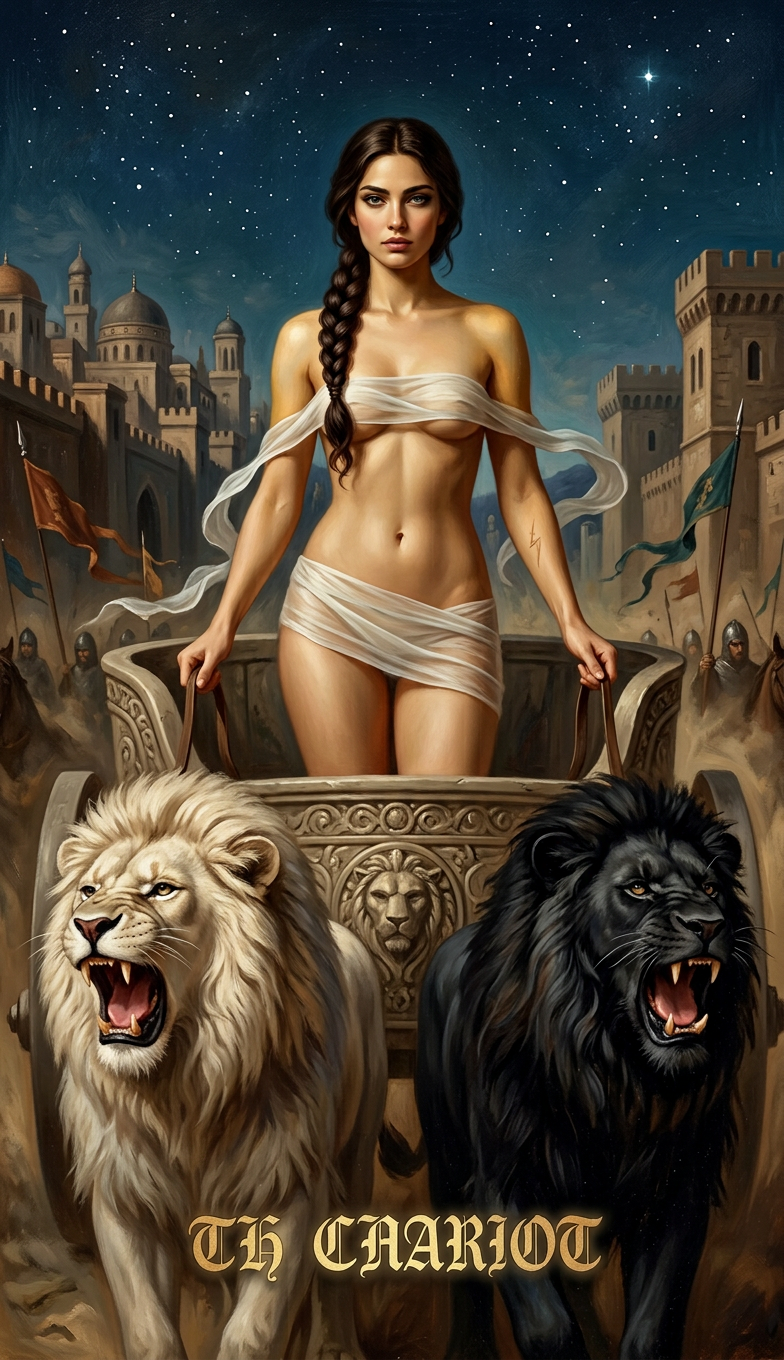
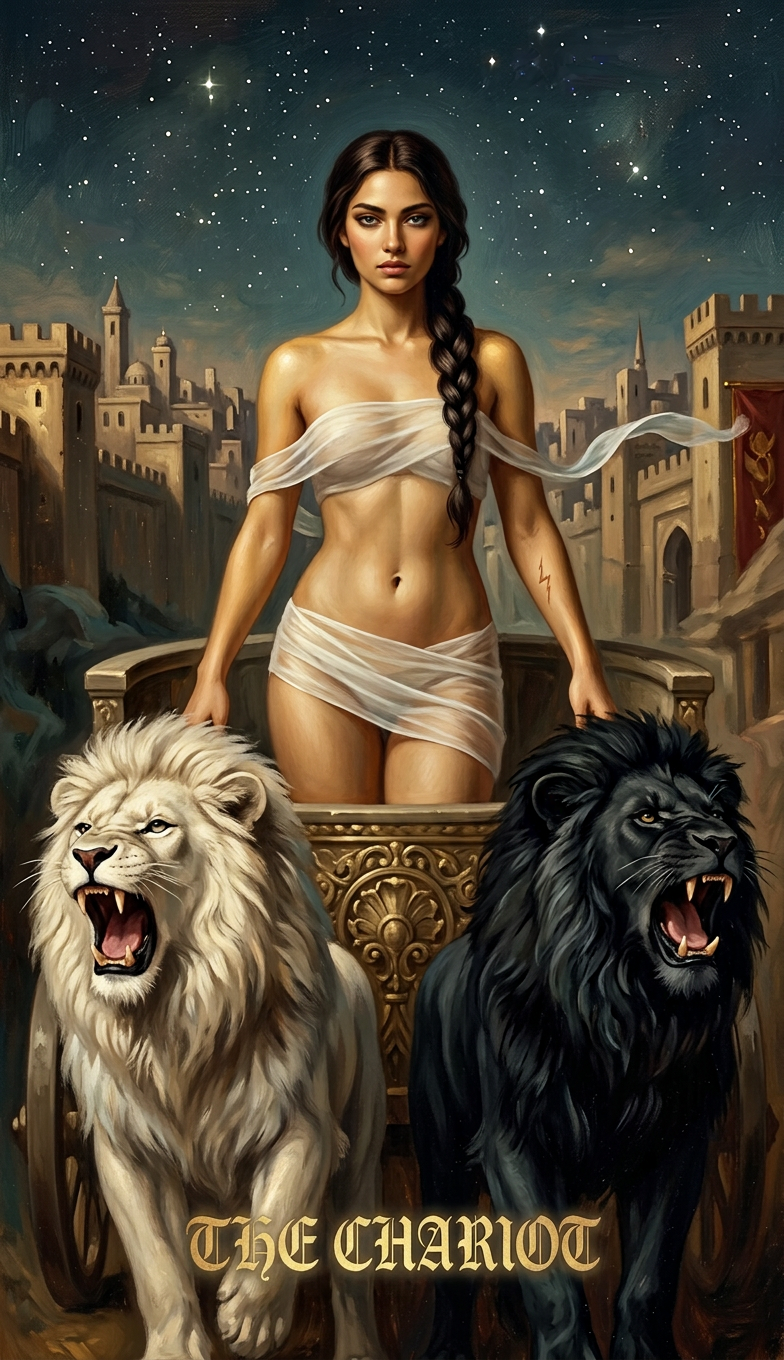
Sinh lai 04-emperor + 07-chariot (re-roll cung prompt da khoa)
- 04-emperor: prompt bo sung cau 'Place it in the clear lower band...' (dong bo voi cac la khac)
- 07-chariot: giu nguyen prompt (2 su tu gam 1 trang 1 den + khoa chinh ta + khoa che chu)
- Kiem tra: edge dai chu 9.23 / 9.90 (nguong mat chu 6.0; mau 11.56)
- Khac ban truoc 12.5% / 14.0% -> dung la ban ve moi

diff --git a/index.html b/index.html
@@ -58,7 +58,7 @@
 </div></div>
 
 <script>
-const DATA = {"cards": [{"slug": "00-fool", "file": "cards/00-fool.png", "title": "Kẻ Ngây Thơ", "title_en": "THE FOOL", "title_vn": "Kẻ Ngây Thơ", "width": 784, "height": 1360, "scene": "a carefree 19-year-old woman wanderer draped only in a transparent silk veil so fine it clings and reveals her bare body beneath, the veil slipping from one shoulder and streaming behind her, a white rose lifted in one hand and her eyes lowered to look at it, stepping lightly toward a cliff edge, a small white dog leaping at her heel, distant mountains under a golden morning sun", "prompt": "cards/prompts/00-fool.txt"}, {"slug": "01-magician", "file": "cards/01-magician.png", "title": "Pháp Sư", "title_en": "THE MAGICIAN", "title_vn": "Pháp Sư", "width": 784, "height": 1360, "scene": "a nude young woman magician, bare torso with a length of silk slung low across her hips, one hand raising a wand to the sky and the other pointing down to the earth, the altar table before her laid with a cup, a sword, a wand and a pentacle, a garden of black roses behind her", "prompt": "cards/prompts/01-magician.txt"}, {"slug": "02-priestess", "file": "cards/02-priestess.png", "title": "Nữ Tư Tế", "title_en": "THE HIGH PRIESTESS", "title_vn": "Nữ Tư Tế", "width": 784, "height": 1360, "scene": "a serene nude priestess, bare shoulders and the soft line of her breasts veiled only by a drift of sheer gauze, seated between two stone pillars, a scroll of mystery resting in her lap, a silver crescent moon at her feet", "prompt": "cards/prompts/02-priestess.txt"}, {"slug": "03-empress", "file": "cards/03-empress.png", "title": "Nữ Hoàng", "title_en": "THE EMPRESS", "title_vn": "Nữ Hoàng", "width": 784, "height": 1360, "scene": "a slender nude empress, one breast bared, a crown of flowers in loosened hair, reclining on a velvet throne amid ripe golden wheat and fruits, a heart-shaped shield of Venus leaning beside her", "prompt": "cards/prompts/03-empress.txt"}, {"slug": "04-emperor", "file": "cards/04-emperor.png", "title": "Hoàng Đế", "title_en": "THE EMPEROR", "title_vn": "Hoàng Đế", "width": 784, "height": 1360, "scene": "a serene 25-year-old female emperor reclining gracefully on a stone throne carved with ram heads, draped only in a diaphanous transparent silk veil so fine it clings to her soft curves and glows with warm light against her skin, the gossamer fabric slipping from one shoulder, holding an ankh scepter loosely in one hand, barren rugged mountains behind her", "prompt": "cards/prompts/04-emperor.txt"}, {"slug": "05-hierophant", "file": "cards/05-hierophant.png", "title": "Giáo Hoàng", "title_en": "THE HIEROPHANT", "title_vn": "Giáo Hoàng", "width": 784, "height": 1360, "scene": "a serene 24-year-old female high mystic priestess draped only in a diaphanous transparent red silk veil so fine it clings to her curves and glows with warm candlelight against her skin, the gossamer-thin fabric slipping from one shoulder, raising one blessing hand, two fair-skinned kneeling female acolytes before her, sacred temple pillars behind", "prompt": "cards/prompts/05-hierophant.txt"}, {"slug": "06-lovers", "file": "cards/06-lovers.png", "title": "Tình Nhân", "title_en": "THE LOVERS", "title_vn": "Tình Nhân", "width": 784, "height": 1360, "scene": "a fair-skinned nude young man and a nude young woman standing hand in hand beneath a great winged angel, her body turned three-quarters toward the viewer with silk fallen to her hip and his hand at the small of her back, the tree of knowledge with a serpent behind her, the tree of flames behind him", "prompt": "cards/prompts/06-lovers.txt"}, {"slug": "07-chariot", "file": "cards/07-chariot.png", "title": "Chiến Xa", "title_en": "THE CHARIOT", "title_vn": "Chiến Xa", "width": 784, "height": 1360, "scene": "a heroic bare-shouldered woman charioteer wrapped in loose sheer white silk with no armor, standing tall in a stone chariot between two sphinxes under a starry canopy, a walled city behind her", "prompt": "cards/prompts/07-chariot.txt"}], "total": 78, "generated": "2026-09-07 16:50 UTC"};
+const DATA = {"cards": [{"slug": "00-fool", "file": "cards/00-fool.png", "title": "Kẻ Ngây Thơ", "title_en": "THE FOOL", "title_vn": "Kẻ Ngây Thơ", "width": 784, "height": 1360, "scene": "a carefree 19-year-old woman wanderer draped only in a transparent silk veil so fine it clings and reveals her bare body beneath, the veil slipping from one shoulder and streaming behind her, a white rose lifted in one hand and her eyes lowered to look at it, stepping lightly toward a cliff edge, a small white dog leaping at her heel, distant mountains under a golden morning sun", "prompt": "cards/prompts/00-fool.txt"}, {"slug": "01-magician", "file": "cards/01-magician.png", "title": "Pháp Sư", "title_en": "THE MAGICIAN", "title_vn": "Pháp Sư", "width": 784, "height": 1360, "scene": "a nude young woman magician, bare torso with a length of silk slung low across her hips, one hand raising a wand to the sky and the other pointing down to the earth, the altar table before her laid with a cup, a sword, a wand and a pentacle, a garden of black roses behind her", "prompt": "cards/prompts/01-magician.txt"}, {"slug": "02-priestess", "file": "cards/02-priestess.png", "title": "Nữ Tư Tế", "title_en": "THE HIGH PRIESTESS", "title_vn": "Nữ Tư Tế", "width": 784, "height": 1360, "scene": "a serene nude priestess, bare shoulders and the soft line of her breasts veiled only by a drift of sheer gauze, seated between two stone pillars, a scroll of mystery resting in her lap, a silver crescent moon at her feet", "prompt": "cards/prompts/02-priestess.txt"}, {"slug": "03-empress", "file": "cards/03-empress.png", "title": "Nữ Hoàng", "title_en": "THE EMPRESS", "title_vn": "Nữ Hoàng", "width": 784, "height": 1360, "scene": "a slender nude empress, one breast bared, a crown of flowers in loosened hair, reclining on a velvet throne amid ripe golden wheat and fruits, a heart-shaped shield of Venus leaning beside her", "prompt": "cards/prompts/03-empress.txt"}, {"slug": "04-emperor", "file": "cards/04-emperor.png", "title": "Hoàng Đế", "title_en": "THE EMPEROR", "title_vn": "Hoàng Đế", "width": 784, "height": 1360, "scene": "a serene 25-year-old female emperor reclining gracefully on a stone throne carved with ram heads, draped only in a diaphanous transparent silk veil so fine it clings to her soft curves and glows with warm light against her skin, the gossamer fabric slipping from one shoulder, holding an ankh scepter loosely in one hand, barren rugged mountains behind her", "prompt": "cards/prompts/04-emperor.txt"}, {"slug": "05-hierophant", "file": "cards/05-hierophant.png", "title": "Giáo Hoàng", "title_en": "THE HIEROPHANT", "title_vn": "Giáo Hoàng", "width": 784, "height": 1360, "scene": "a serene 24-year-old female high mystic priestess draped only in a diaphanous transparent red silk veil so fine it clings to her curves and glows with warm candlelight against her skin, the gossamer-thin fabric slipping from one shoulder, raising one blessing hand, two fair-skinned kneeling female acolytes before her, sacred temple pillars behind", "prompt": "cards/prompts/05-hierophant.txt"}, {"slug": "06-lovers", "file": "cards/06-lovers.png", "title": "Tình Nhân", "title_en": "THE LOVERS", "title_vn": "Tình Nhân", "width": 784, "height": 1360, "scene": "a fair-skinned nude young man and a nude young woman standing hand in hand beneath a great winged angel, her body turned three-quarters toward the viewer with silk fallen to her hip and his hand at the small of her back, the tree of knowledge with a serpent behind her, the tree of flames behind him", "prompt": "cards/prompts/06-lovers.txt"}, {"slug": "07-chariot", "file": "cards/07-chariot.png", "title": "Chiến Xa", "title_en": "THE CHARIOT", "title_vn": "Chiến Xa", "width": 784, "height": 1360, "scene": "a heroic bare-shouldered woman charioteer wrapped in loose sheer white silk with no armor, standing tall in a stone chariot between two sphinxes under a starry canopy, a walled city behind her", "prompt": "cards/prompts/07-chariot.txt"}], "total": 78, "generated": "2026-09-07 16:55 UTC"};
 const grid = document.getElementById('grid');
 const pct = Math.round(DATA.cards.length / DATA.total * 100);
 document.getElementById('n').textContent = DATA.cards.length;
